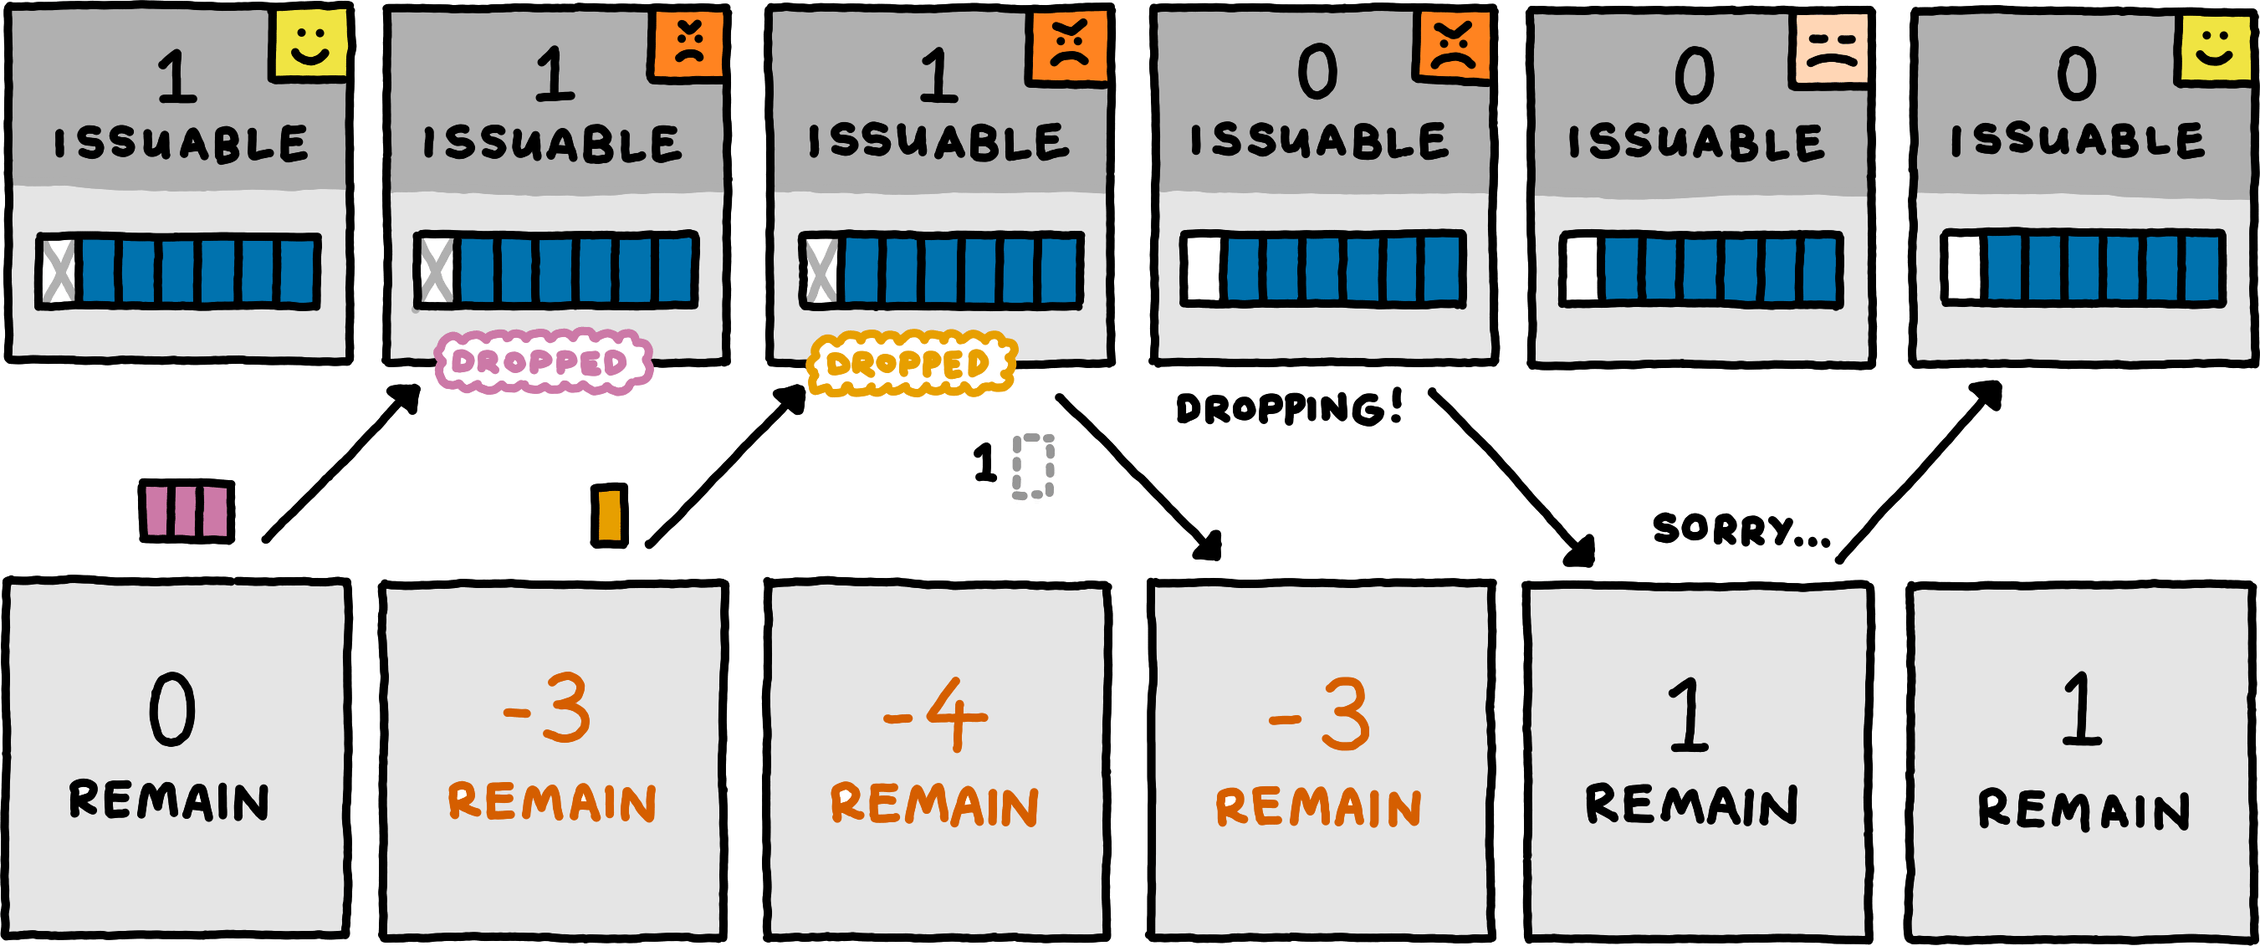
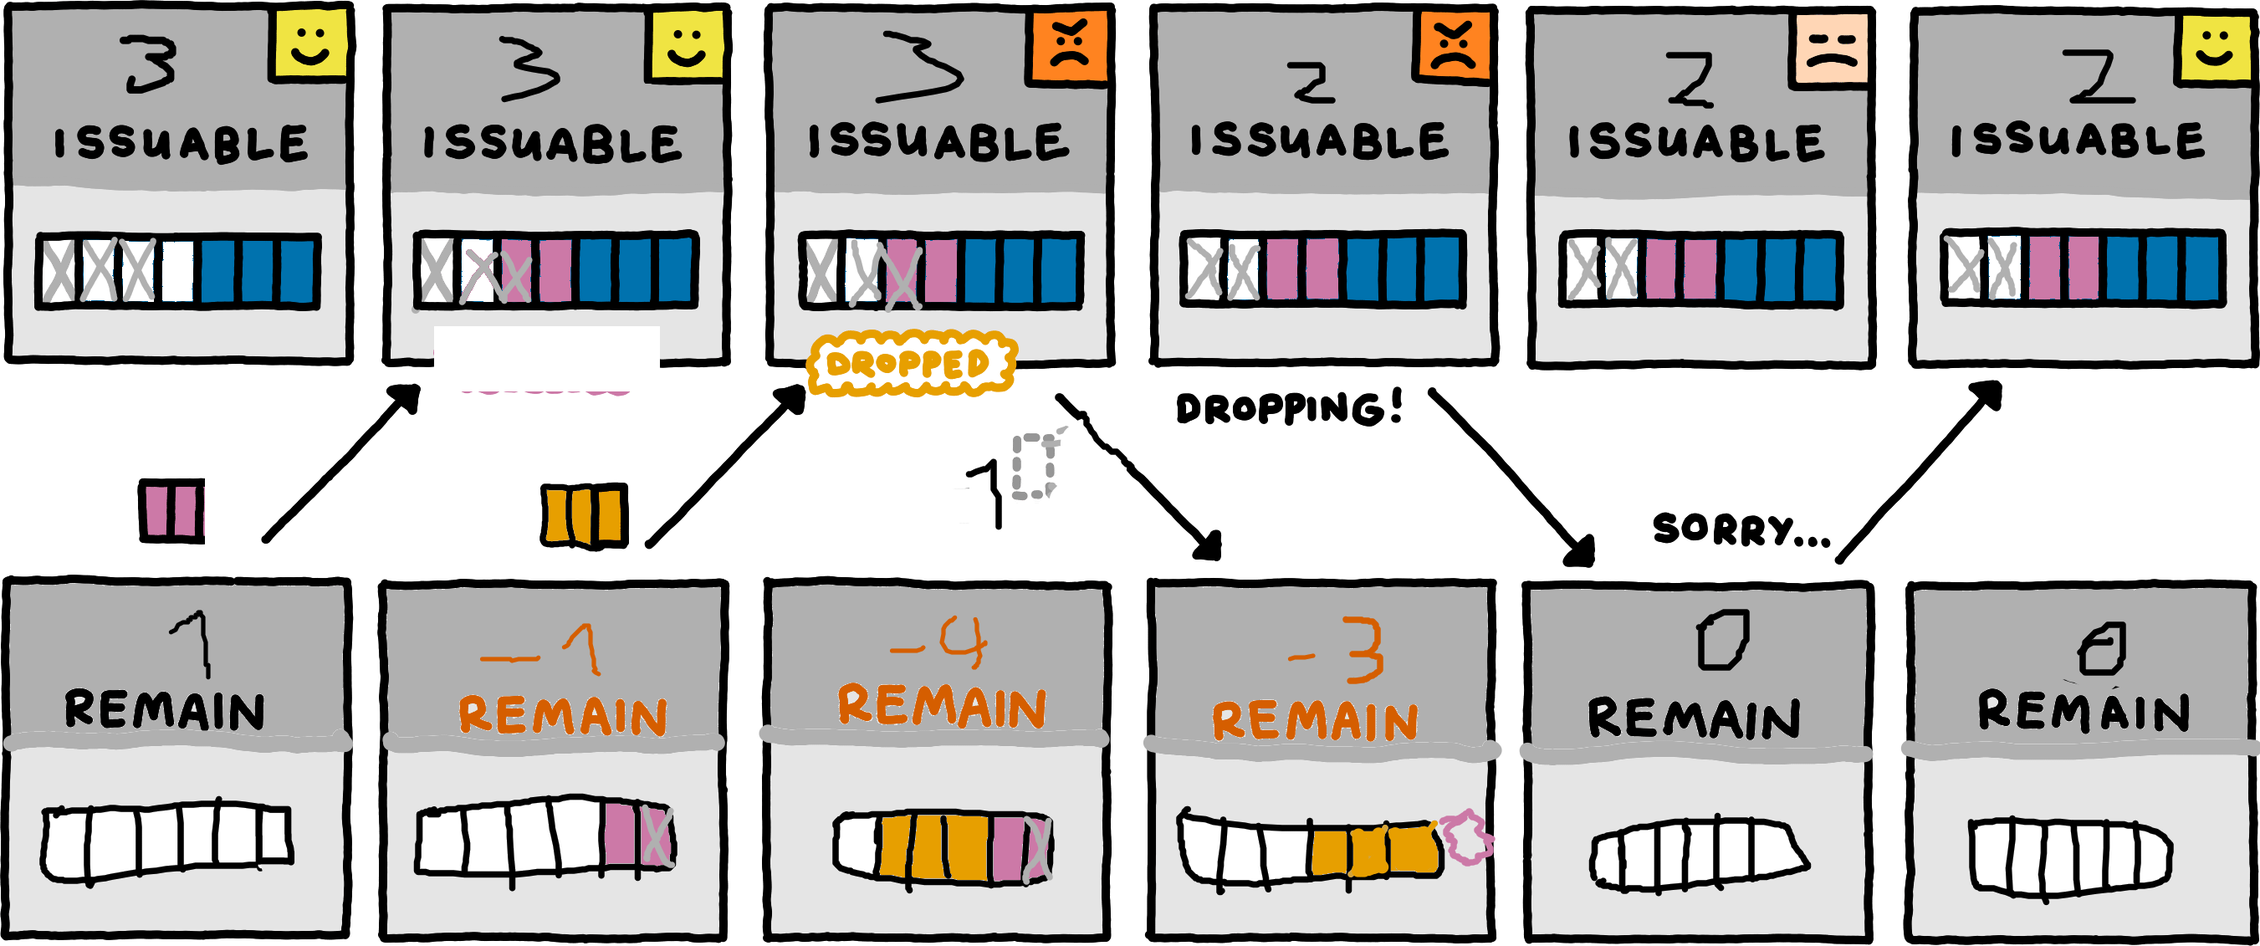
Improve documentation of retransmission logic; also improve gwil's drawing

diff --git a/willowtest/specs/sync/resource_control.ts b/willowtest/specs/sync/resource_control.ts
@@ -1,5 +1,5 @@
-import { def, def_fake, r, rs } from "../../../defref.ts";
-import { code, em, figcaption, figure, img } from "../../../h.ts";
+import { R, def, def_fake, r, rs } from "../../../defref.ts";
+import { br, code, em, figcaption, figure, img, span } from "../../../h.ts";
 import { hsection } from "../../../hsection.ts";
 import { $, $comma } from "../../../katex.ts";
 import { marginale, sidenote } from "../../../marginalia.ts";
@@ -8,11 +8,14 @@ import { hl_builtin, Struct } from "../../../pseudocode.ts";
 import { pseudocode } from "../../../pseudocode.ts";
 import { Expression } from "macro";
 import {
+blue,
   def_parameter_type,
   def_value,
   ols,
   pinformative,
+  purple,
   site_template,
+  vermillion,
 } from "../../main.ts";
 
 const apo = "’";
@@ -81,32 +84,33 @@ export const resource_control: Expression = site_template(
       ),
       
       figure(
-        img(asset("resource_control/rc_simplest_case.png"))
+        img(asset("resource_control/rc_simplest_case.png")),
+        marginale(["This diagram shows the statekeeping for only a single ", r("logical_channel"), ". The full session state consists of an independent copy for every different ", r("logical_channel"), " a protocol defines."]),
+        figcaption("Statekeeping for ", r("resources_server"), " and ", r("resources_client"), " when the ", r("resources_client"), " sends a message. The ", r("resources_server"), " tracks for how many unoccupied buffer slots it has not yet issued ", rs("guarantee"), ", the ", r("resources_client"), " tracks how many ", rs("guarantee"), " it has available. Sending a message reduces the guarantees available to the client."),
       ),
 
       pinformative("When the ", r("resources_server"), " increases a buffer’s capacity, it gives that many ", rs("guarantee"), " (measured in bytes) for the corresponding ", r("logical_channel"), " to the ", r("resources_client"), ". When establishing the connection, the ", r("resources_client"), " has no ", rs("guarantee"), ", and the ", r("resources_server"), " typically starts by sending ", rs("guarantee"), " equal to its initial buffer capacities. Conceptually, the ", r("resources_server"), " begins its operation by increasing its buffer capacities from zero to their actual starting amounts."),
       
       figure(
-        img(asset("resource_control/increasing_buffer_capacity.png"))
+        img(asset("resource_control/increasing_buffer_capacity.png")),
+        figcaption("The ", r("resources_server"), " increases its buffer capacity and then issues as many ", rs("guarantee"), "."),
       ),
 
       pinformative("The second way of giving ", rs("guarantee"), " occurs when the ", r("resources_server"), " has processed a buffered message and thus frees up buffer space. It then communicates the amount of buffer space that was freed up, and for which ", r("logical_channel"), ". The ", r("resources_server"), " need not communicate this immediately, it is free to send only the occasional update that aggregates ", rs("guarantee"), " that stem from processing several messages from the same ", r("logical_channel"), "."),
       
       figure(
-        img(asset("resource_control/processing_messages.png"))
+        img(asset("resource_control/processing_messages.png")),
+        figcaption("The ", r("resources_server"), " processes a ", vermillion("message"), ", it later processes another ", blue("message"), ", and then decides to issue ", rs("guarantee"), " for the freed buffer slots."),
       ),
 
       pinformative("When the ", r("resources_server"), " wishes to reduce the capacity of some buffer, it simply processes messages from that buffer without informing the ", r("resources_client"), ". This decreases the overall amount of ", rs("guarantee"), " in the system by the correct amount."),
       
       figure(
-        img(asset("resource_control/reducing_capacity.png"))
+        img(asset("resource_control/reducing_capacity.png")),
+        figcaption("Processing a message without issuing ", rs("guarantee"), " for it allows the ", r("resources_server"), " to shrink its buffer."),
       ),
 
       pinformative("This technique is only applicable when the ", r("resources_server"), " has some buffered messages; it does not allow it to reduce buffer capacity for empty buffers. But the ", r("resources_server"), " cannot simply decrease the buffer size and then inform the ", r("resources_client"), ": while that information is travelling to the ", r("resources_client"), ", the ", r("resources_client"), " might send messages on this ", r("logical_channel"), ", fully expecting them to be buffered by the ", r("resources_server"), ". "),
-      
-      figure(
-        img(asset("resource_control/good_shrinking.png"))
-      ),
 
       pinformative(
         "To solve this problem, we introduce a mechanism for the ", r("resources_client"), " to ",
@@ -115,21 +119,32 @@ export const resource_control: Expression = site_template(
         ]),
         " the ", r("resources_server"), " of some absolute amount of its unused ", rs("guarantee"), " on some ", r("logical_channel"), ", and we add a way for the ", r("resources_server"), " to ask for such ", r("absolution"), ". Asking for ", r("absolution"), " takes the form of specifying the ", r("logical_channel"), " and the number of ", rs("guarantee"), " the ", r("resources_server"), " would like the ", r("resources_client"), " to keep. Upon receiving this request, the ", r("resources_client"), " ", r("absolution", "absolves"), " the ", r("resources_server"), " of exactly the amount needed to reach the desired number of ", rs("guarantee"), ". If the ", r("resources_client"), " already has fewer ", rs("guarantee"), " by the time the request for ", r("absolution"), " arrives, the ", r("resources_client"), " simply ignores the request.",
       ),
-      
-      figure(
-        img(asset("resource_control/complex_shrinking.png"))
-      ),
 
-      pinformative(
-        "Taken together, these techniques make for a stable system where the ", r("resources_client"), " never overwhelms the buffer capacity of the ", r("resources_server"), ". As a final addition, however, we want to give the ability to optimistically send data, at the risk of overwhelming the ", r("resources_server"), ". To allow this, the ", r("resources_server"), " must be able to drop optimistically sent messages without processing them. This requires us to add a certain degree of retransmission logic to the protocol, since the ", r("resources_client"), " must be informed of the message dropping.",
+      figure(
+        img(asset("resource_control/good_shrinking.png")),
+        figcaption("Buffer downscaling without any concurrency issues: the ", r("resources_server"), " asks for ", r("absolution"), ", the ", r("resources_client"), " grants it."),
       ),
       
       figure(
-        img(asset("resource_control/optimistic_sending.png"))
+        img(asset("resource_control/complex_shrinking.png")),
+        figcaption("Concurrent to the ", r("resources_server"), " asking for ", r("absolution"), ", the ", r("resources_client"), " sends a message. The protocol is designed so that nothing goes wrong."),
       ),
 
       pinformative(
-        "To keep the complexity of the retransmission logic minimal, we adopt a very simple solution: when the ", r("resources_server"), " drops an ",
+        "Taken together, these techniques make for a stable system where the ", r("resources_client"), " never overwhelms the buffer capacity of the ", r("resources_server"), ". As a final addition, however, we want to allow the ", r("resources_client"), " to optimistically send data even though it might have no corresponding guarantees. The ", r("resources_server"), " may, after all, have freed up buffer space by the time the optimistically transmitted messages arrive.",
+      ),
+      
+      figure(
+        img(asset("resource_control/optimistic_sending.png")),
+        figcaption("The ", r("resources_client"), " optimistically sends a message, pushing its available ", rs("guarantee"), " below zero. The ", r("resources_server"), " has buffer space available; it simply buffers the message without taking any special action."),
+      ),
+
+      pinformative(
+        "If the ", r("resources_server"), " has insufficient buffer capacity when an optimistically transmitted message arrives, the ", r("resources_server"), " drops it without any processing. This requires us to add a certain degree of retransmission logic to the protocol, since the ", r("resources_client"), " must be informed of the message dropping.",
+      ),
+
+      pinformative(
+        "To keep the complexity of the retransmission logic minimal, we adopt a simplistic solution: when the ", r("resources_server"), " drops an ",
         sidenote("optimistically", [
           "The ", r("resources_server"), " is still ", em("not"), " allowed to drop messages for which it had previously guaranteed buffer capacity."
         ]),
@@ -142,24 +157,22 @@ export const resource_control: Expression = site_template(
       
       figure(
         {class: 'wide'},
-        img(asset("resource_control/optimistic_sending_gone_awry.png"))
+        img(asset("resource_control/optimistic_sending_gone_awry.png")),
+        figcaption("When the ", r("resources_server"), " receives an optimistic ", vermillion("message"), " it cannot buffer, it drops it and all further messages, even any ", purple("message"), " for which it has sufficient buffer capacity. Only after receiving an ", r("apology"), " does it switch state and become able to accept further messages. The ", r("resources_client"), ", when notified of message dropping, increments its counter of remaining ", rs("guarantee"), " by the number of message bytes that got dropped."),
       ),
       
+      pinformative(
+        "This approach comes with two subtleties. First, the ", r("resources_server"), " must never buffer partial messages — if it can buffer all but one byte of a message, it must still drop the full message and all subsequent ones until the ", r("apology"), ". Second, the ", r("resources_server"), " must issue ", rs("guarantee"), " for all the optimistic message bytes that it did manage to buffer, before informing the ", r("resources_client"), " that it has started to drop messages. This is necessary so that the ", r("resources_client"), " can reconstruct exactly which of its messages got dropped, and which still made it through.",
+      ),
+
       figure(
         {class: 'wide'},
-        img(asset("resource_control/optimistic_sending_gone_really_awry.png"))
-      ),
-
-      pinformative(
-        "This approach comes with two subtleties. First, the ", r("resources_server"), " must never buffer partial messages — if it can buffer all but one byte of a message, it must still drop the full message and all subsequent ones until the ", r("apology"), ". Second, the ", r("resources_server"), " must issue any ", rs("guarantee"), " for all the messages that it did manage to process before informing the ", r("resources_client"), " that it has started to drop messages. This is necessary so that the ", r("resources_client"), " can reconstruct exactly which of its messages got dropped. ",
-      ),
-
-      pinformative(
-        "An example: Suppose the ", r("resources_server"), " has issued ", rs("guarantee"), " for 100 bytes of buffer capacity, and the ", r("resources_client"), " has sent 80 bytes worth of messages. The ", r("resources_client"), " now decides to send 60 bytes more. While these messages travel through the network, the ", r("resources_server"), " processes 7 bytes, but decides not to give the corresponding seven ", rs("guarantee"), " to the ", r("resources_client"), " yet. Now the 60 bytes arrive at the ", r("resources_server"), ", while the ", r("resources_server"), " has 27 bytes of free buffer capacity. So the ", r("resources_server"), " buffers 27 bytes and drops the remaining 33 ",
-        sidenote("bytes", [
-          "For simplicity, we assume that there just happens to be a message boundary there.",
-        ]),
-        ". If its next message was to inform the ", r("resources_client"), " that it started dropping, the ", r("resources_client"), " would believe that only its first 20 bytes of the second batch got buffered, not the first 27. This is why the ", r("resources_server"), " must first issue ", rs("guarantee"), " for the seven bytes it had successfully processed before notifying the ", r("resources_client"), " that it started dropping.",
+        img(asset("resource_control/optimistic_sending_gone_really_awry.png")),
+        figcaption(
+          "Before the ", r("resources_server"), " announces that it is dropping messages, it issues ", rs("guarantee"), " for the optimistic messages bytes it did manage to buffer. The ", r("resources_client"), " maintains a queue of its optimistically transmitted messages, and tracks how many of their bytes it knows to have been processed. When the ", r("resources_client"), " receives ", rs("guarantee"), " for all bytes of a message, it can be ", purple("dequeued"), ".",
+          br(),
+          "In this example, the ", r("resources_client"), " empties its queue, whereas a realistic implementation would probably keep the queue to (transparently) retransmit all dropped messages before sending new ones. Note further that the ", r("resources_server"), " has to issue a ", r("guarantee"), " before sending the dropping notification, but it would also have been allowed to issue further ", rs("guarantee"), " — a realistic ", r("resources_server"), " would have issued all three issuable ", rs("guarantee"), "."
+        ),
       ),
     ]),
 

diff --git a/willowtest/specs/sync/product_based_set_reconciliation.ts b/willowtest/specs/sync/product_based_set_reconciliation.ts
@@ -19,12 +19,16 @@ import { asset } from "../../../out.ts";
 import { def_type, pseudo_array, pseudocode, Struct } from "../../../pseudocode.ts";
 import { Expression } from "../../../tsgen.ts";
 import {
+blue,
 def_parameter_fn,
   def_parameter_value,
   link,
   lis,
+  orange,
   pinformative,
+  purple,
   site_template,
+  vermillion,
 } from "../../main.ts";
 import { small_img } from "../encodings.ts";
 
@@ -72,21 +76,21 @@ export const range3d_based_set_reconciliation: Expression = site_template(
     
     figure(
       img(asset("3d_rbsr/fp_match.png")),
-      figcaption(span({ class: 'purple'}, "Alfie"), " and ", span({ class: "orange" }, "Betty"), " produce equal fingerprints for all their ", rs("Entry"), " in a given ", r("3dRange"), ".")
+      figcaption(purple("Alfie"), " and ", orange("Betty"), " produce equal fingerprints for all their ", rs("Entry"), " in a given ", r("3dRange"), ".")
     ),
     
     pinformative("If they do not match, there are two options. First, the peer can split its set in half and then initiate set reconciliation for each half concurrently (by transmitting its hashes for both halves). Second, if the set is sufficiently small, the peer can instead simply transmit its items in the set. The other peer responds to this with all other items that it held in the set, completing the process of reconciliation."),
 
     figure(
       img(asset("3d_rbsr/fp_nonmatching.png")),
-      figcaption(span({ class: 'purple'}, "Alfie"), " and ", span({ class: "orange" }, "Betty"), " produce non-equal fingerprints. ", span({ class: 'purple'}, "Alfie"), " splits the ", r("3dRange"), " in two, yielding a ", r("3dRange"), " ", r("3d_range_include", "including"), " ", rs("Entry"), " ", code("A"), " and ", code("B"), ", and another ", r("3dRange"), " ", r("3d_range_include", "including"), " ", code("C"), ", and sends these ", rs("3dRange"), " and their fingerprints to ", span({ class: "orange" }, "Betty"), ". ", span({ class: "orange" }, "Betty"), " produces a matching fingerprint for the first ", r("3dRange"), ". As the other, mismatched ", r("3dRange"), " includes so few ", rs("Entry"), ", ", span({ class: 'orange'}, "Betty"), " sends her ", rs("Entry"), " ", code("Q"), " and ", code("Y"), " to ", span({ class: "purple" }, "Alfie"), ". In response, ", span({ class: "purple" }, "Alfie"), " sends ", r("Entry"), " ", code("C"), " to ", span({ class: 'orange'}, "Betty"), ".")
+      figcaption(purple("Alfie"), " and ", orange("Betty"), " produce non-equal fingerprints. ", purple("Alfie"), " splits the ", r("3dRange"), " in two, yielding a ", r("3dRange"), " ", r("3d_range_include", "including"), " ", rs("Entry"), " ", code("A"), " and ", code("B"), ", and another ", r("3dRange"), " ", r("3d_range_include", "including"), " ", code("C"), ", and sends these ", rs("3dRange"), " and their fingerprints to ", orange("Betty"), ". ", orange("Betty"), " produces a matching fingerprint for the first ", r("3dRange"), ". As the other, mismatched ", r("3dRange"), " includes so few ", rs("Entry"), ", ", orange("Betty"), " sends her ", rs("Entry"), " ", code("Q"), " and ", code("Y"), " to ", purple("Alfie"), ". In response, ", purple("Alfie"), " sends ", r("Entry"), " ", code("C"), " to ", orange("Betty"), ".")
     ),
    
     pinformative("Overall, the peers collaboratively drill down to the differences between their two sets in a logarithmic number of communication rounds, spending only little bandwidth on those regions of the original sets where they hold the same items. Note that peers can actually split sets into arbitrarily many subsets in each step. Splitting into more subsets per step decreases the total number of communication rounds."),
     
     figure(
       img(asset("3d_rbsr/drilling_down.png")),
-      figcaption("Split apart ", span({class: 'vermillion'},"non-equal ranges"),  " to hone in on the locations of any differences, while disregarding ", span({class: 'blue'}, "equal ranges"), ".")
+      figcaption("Split apart ", vermillion("non-equal ranges"),  " to hone in on the locations of any differences, while disregarding ", blue("equal ranges"), ".")
     ),
 
     pinformative(def({id: "3drbsr", singular: "3d range-based set reconciliation"}, "3d range-based set reconciliation", [

diff --git a/willowtest/main.ts b/willowtest/main.ts
@@ -307,6 +307,69 @@ export function aside_block(
   return aside({ class: "long" }, body);
 }
 
+export function orange(
+  ...exps: Expression[]
+): Invocation {
+  const macro = new_macro(
+    (args, _ctx) => span({ class: "orange" }, ...args),
+  );
+  return new Invocation(macro, exps);
+}
+
+export function sky_blue(
+  ...exps: Expression[]
+): Invocation {
+  const macro = new_macro(
+    (args, _ctx) => span({ class: "sky-blue" }, ...args),
+  );
+  return new Invocation(macro, exps);
+}
+
+export function green(
+  ...exps: Expression[]
+): Invocation {
+  const macro = new_macro(
+    (args, _ctx) => span({ class: "green" }, ...args),
+  );
+  return new Invocation(macro, exps);
+}
+
+export function yellow(
+  ...exps: Expression[]
+): Invocation {
+  const macro = new_macro(
+    (args, _ctx) => span({ class: "yellow" }, ...args),
+  );
+  return new Invocation(macro, exps);
+}
+
+export function blue(
+  ...exps: Expression[]
+): Invocation {
+  const macro = new_macro(
+    (args, _ctx) => span({ class: "blue" }, ...args),
+  );
+  return new Invocation(macro, exps);
+}
+
+export function purple(
+  ...exps: Expression[]
+): Invocation {
+  const macro = new_macro(
+    (args, _ctx) => span({ class: "purple" }, ...args),
+  );
+  return new Invocation(macro, exps);
+}
+
+export function vermillion(
+  ...exps: Expression[]
+): Invocation {
+  const macro = new_macro(
+    (args, _ctx) => span({ class: "vermillion" }, ...args),
+  );
+  return new Invocation(macro, exps);
+}
+
 export function path(
   ...components: Expression[]
 ): Expression {

diff --git a/willowtest/specs/grouping_entries.ts b/willowtest/specs/grouping_entries.ts
@@ -1,4 +1,4 @@
-import { def_value, link, lis, pinformative, quotes, site_template } from "../main.ts";
+import { blue, def_value, green, link, lis, orange, pinformative, purple, quotes, site_template, vermillion } from "../main.ts";
 import { hsection } from "../../hsection.ts";
 import { code, em, figcaption, figure, img, span } from "../../h.ts";
 import { asset } from "../../out.ts";
@@ -33,7 +33,7 @@ export const grouping_entries: Expression = site_template({
     
     figure(
       img(asset("grouping_entries/ranges.png")),
-      figcaption("A ", span({class: "vermillion"}, r('closed_range')), " and an ", span({class: "green"}, r('open_range')), ".")
+      figcaption("A ", vermillion(r('closed_range')), " and an ", green(r('open_range')), ".")
     ),
 
     pinformative("The Willow protocols use three types of ", rs("range"), ":"),
@@ -103,7 +103,7 @@ export const grouping_entries: Expression = site_template({
     marginale_inlineable(
       [
         img(asset("grouping_entries/3d_range.png")),
-        figcaption("A ", span({class: "orange"}, r("3dRange")), " composed of a ", span({class: "green"}, r("TimeRange")), ", ", span({class: "blue"}, r("PathRange")), ", and ", span({class: "purple"}, r("SubspaceRange")), ".")
+        figcaption("A ", orange(r("3dRange")), " composed of a ", green(r("TimeRange")), ", ", blue(r("PathRange")), ", and ", purple( r("SubspaceRange")), ".")
       ]
     ),
 
